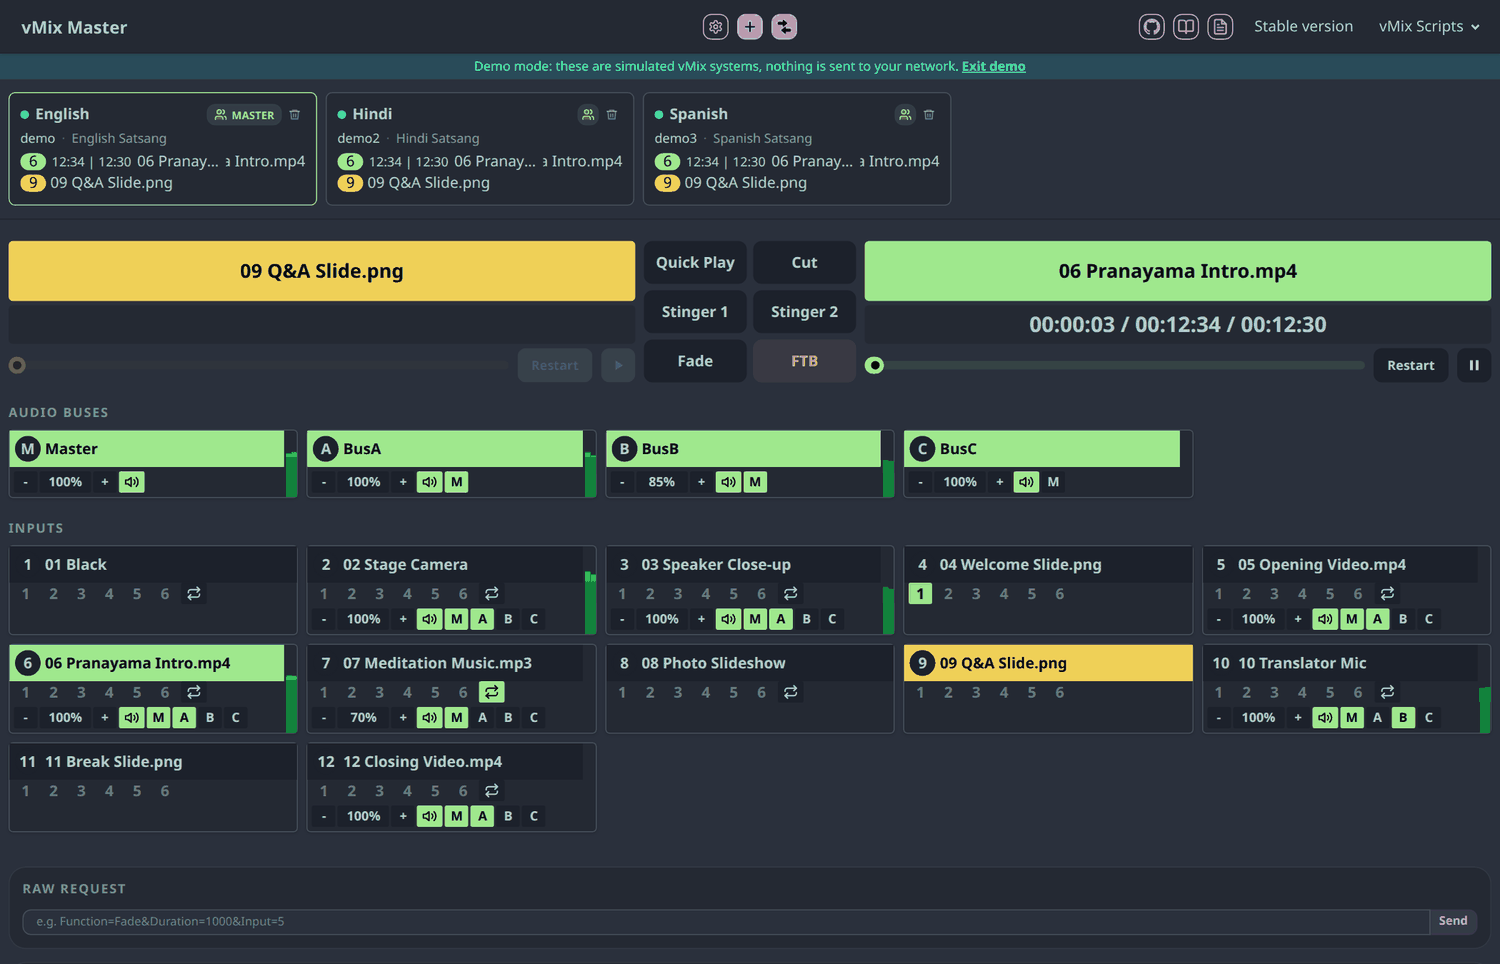
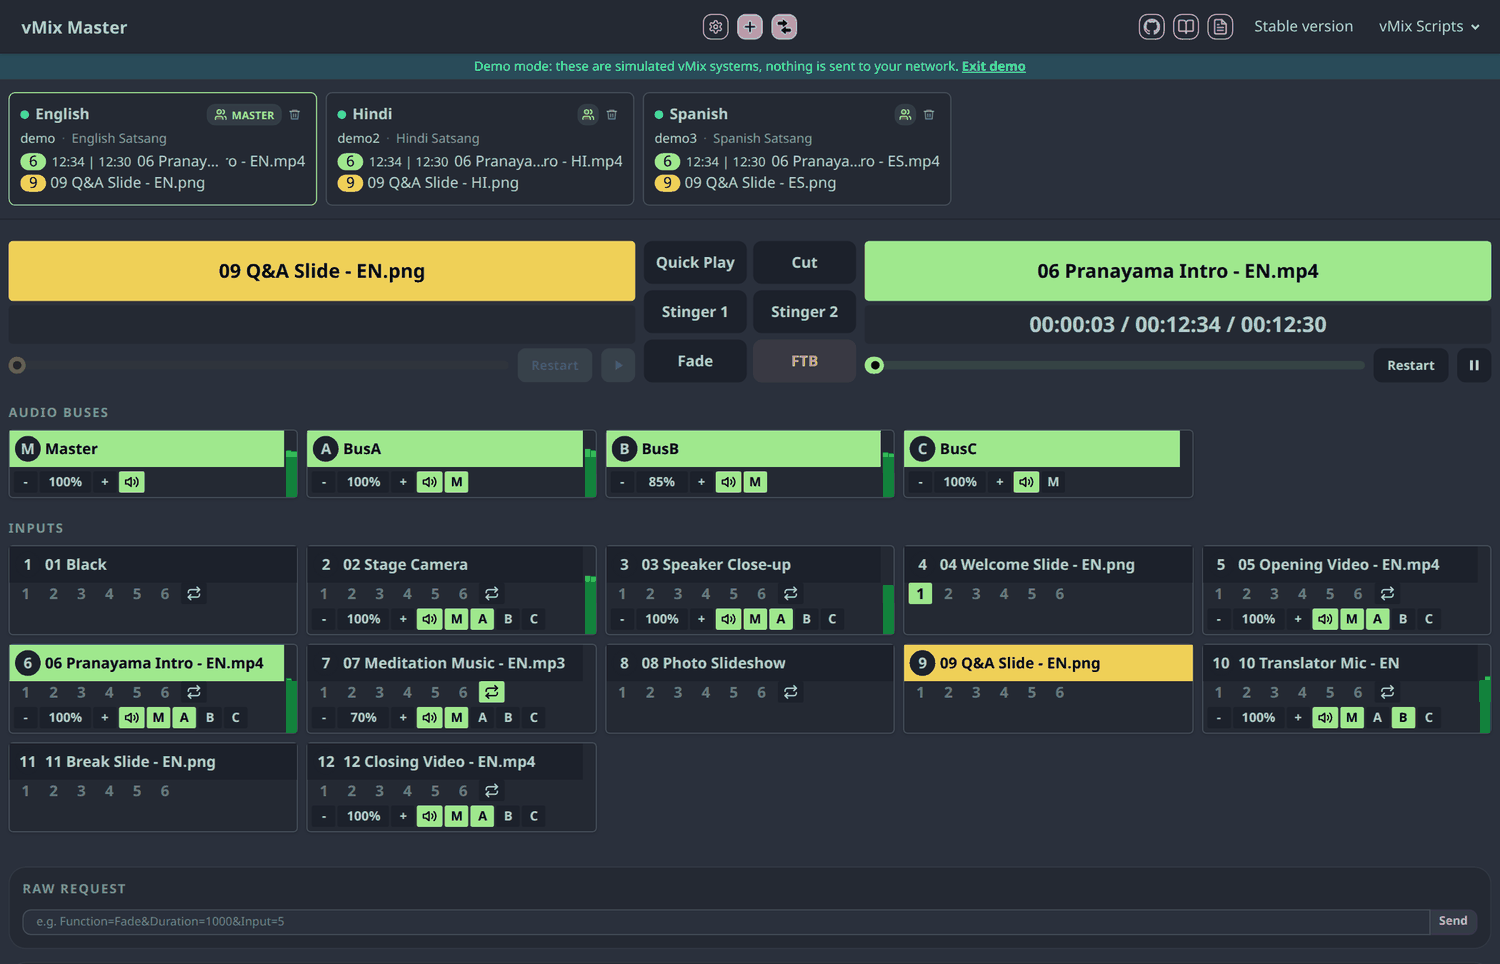
Tag the demo's language-specific inputs with EN, HI or ES
Slides, videos, music and the translator mic carry the language of their
system ("05 Opening Video - HI.mp4"), so it is clear in the demo that each
box has a different preset open. Cameras and the black stay the same on
every system. The README GIF and screenshot are regenerated to show it.

diff --git a/public/ts/demo.ts b/public/ts/demo.ts
@@ -72,6 +72,7 @@ class DemoVmix {
         private now: () => number,
         private random: () => number,
         openingExtraMs = 0,
+        language = '',
     ) {
         this.preset = preset;
         const t = now();
@@ -96,16 +97,19 @@ class DemoVmix {
             buses: [],
             ...options,
         });
+        // Slides, videos and the translator are per language, cameras and the like are shared.
+        const named = (name: string, extension = '') =>
+            language === '' ? name + extension : `${name} - ${language}${extension}`;
         const live = () => ({ running: true, hasAudio: true, buses: ['M', 'A'] });
         const video = (duration: number) => ({ duration, hasAudio: true, buses: ['M', 'A'] });
         this.inputs = [
             make(1, 'Colour', '01 Black'),
             make(2, 'Capture', '02 Stage Camera', live()),
             make(3, 'Capture', '03 Speaker Close-up', live()),
-            make(4, 'Image', '04 Welcome Slide.png'),
-            make(5, 'Video', '05 Opening Video.mp4', video(270000 + openingExtraMs)),
-            make(6, 'Video', '06 Pranayama Intro.mp4', video(754000)),
-            make(7, 'AudioFile', '07 Meditation Music.mp3', {
+            make(4, 'Image', named('04 Welcome Slide', '.png')),
+            make(5, 'Video', named('05 Opening Video', '.mp4'), video(270000 + openingExtraMs)),
+            make(6, 'Video', named('06 Pranayama Intro', '.mp4'), video(754000)),
+            make(7, 'AudioFile', named('07 Meditation Music', '.mp3'), {
                 duration: 480000,
                 hasAudio: true,
                 buses: ['M'],
@@ -113,14 +117,14 @@ class DemoVmix {
                 loop: true,
             }),
             make(8, 'Photos', '08 Photo Slideshow', { duration: 12, position: 3 }),
-            make(9, 'Image', '09 Q&A Slide.png'),
-            make(10, 'Audio', '10 Translator Mic', {
+            make(9, 'Image', named('09 Q&A Slide', '.png')),
+            make(10, 'Audio', named('10 Translator Mic'), {
                 running: true,
                 hasAudio: true,
                 buses: ['M', 'B'],
             }),
-            make(11, 'Image', '11 Break Slide.png'),
-            make(12, 'Video', '12 Closing Video.mp4', video(90000)),
+            make(11, 'Image', named('11 Break Slide', '.png')),
+            make(12, 'Video', named('12 Closing Video', '.mp4'), video(90000)),
         ];
     }
 
@@ -321,6 +325,7 @@ class DemoVmix {
 
 // ===== Request handling =====
 const DEMO_PRESETS = ['English Satsang', 'Hindi Satsang', 'Spanish Satsang'];
+const DEMO_LANGUAGES = ['EN', 'HI', 'ES'];
 const demoInstances: Record<string, DemoVmix> = {};
 
 function getDemoHostname(url: string): string | null {
@@ -336,7 +341,13 @@ function createDemoVmix(hostname: string): DemoVmix {
     const index = Number(hostname.slice('demo'.length)) || 1;
     const preset = DEMO_PRESETS[index - 1] ?? `Demo ${index}`;
     // The third system has a slightly longer opening video, so "Group Compare" has something to find.
-    return new DemoVmix(preset, Date.now, Math.random, index === 3 ? 12000 : 0);
+    return new DemoVmix(
+        preset,
+        Date.now,
+        Math.random,
+        index === 3 ? 12000 : 0,
+        DEMO_LANGUAGES[index - 1] ?? '',
+    );
 }
 
 // Returns the response body for a demo host, or null when the URL is not a demo host.

diff --git a/test/demo.test.ts b/test/demo.test.ts
@@ -66,6 +66,20 @@ describe('demo hosts', () => {
         );
     });
 
+    it('tags language-specific inputs per system and shares the rest', () => {
+        const title = (host: string, n: number) =>
+            attr(input(handleDemoRequest(`http://${host}:8088/api/`) ?? '', n), 'title');
+        assert.equal(title('demo', 5), '05 Opening Video - EN.mp4');
+        assert.equal(title('demo2', 5), '05 Opening Video - HI.mp4');
+        assert.equal(title('demo3', 9), '09 Q&amp;A Slide - ES.png');
+        assert.equal(title('demo2', 10), '10 Translator Mic - HI');
+        // Cameras and the black are the same on every system.
+        assert.equal(title('demo2', 2), '02 Stage Camera');
+        assert.equal(title('demo3', 1), '01 Black');
+        // Further demo systems have no language to tag.
+        assert.equal(title('demo4', 5), '05 Opening Video.mp4');
+    });
+
     it('makes the third system differ so Group Compare has something to report', () => {
         const duration = (host: string) =>
             attr(input(handleDemoRequest(`http://${host}:8088/api/`) ?? '', 5), 'duration');
